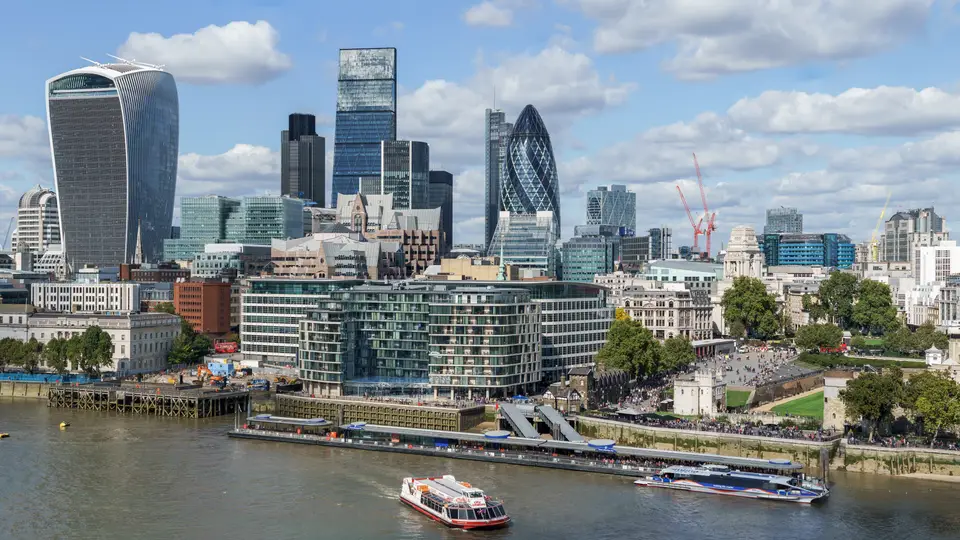
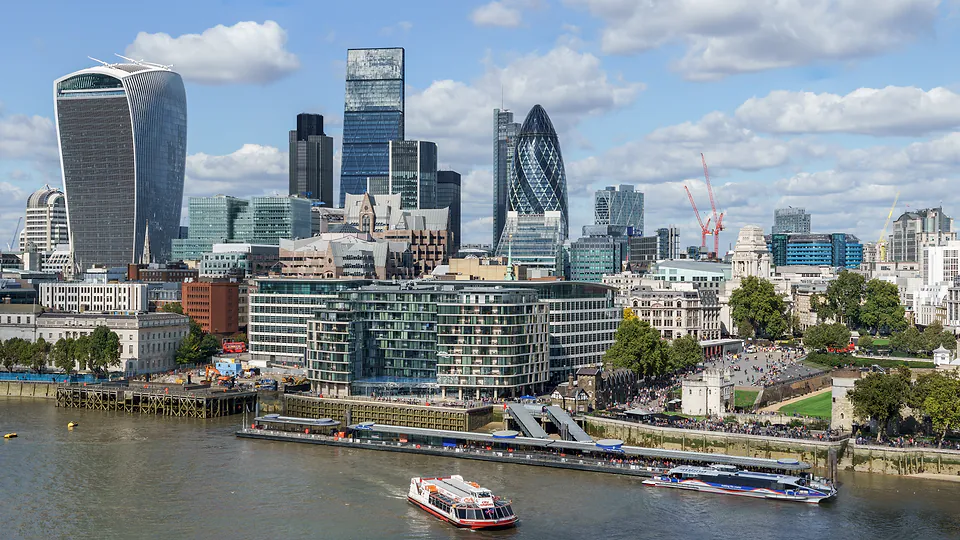
Hero photos brighter and clearer, changing every 3 seconds
Shading now sits only behind the text (measured 4.5:1 or better on every
photo), photos re-exported sharper with a 2560px size, and the slideshow
moves forward every 3 seconds for every visitor, with Pause still working.

diff --git a/web/src/components/home/HeroPhotoSlides.tsx b/web/src/components/home/HeroPhotoSlides.tsx
@@ -1,13 +1,15 @@
 "use client";
 
-import { useEffect, useReducer, useState, useSyncExternalStore } from "react";
+import { useEffect, useReducer, useState } from "react";
 import { cn } from "@/lib/cn";
 import { Container } from "@/components/ui/Container";
 
 /**
  * Sliding background photos for the homepage hero (owner request
  * 2026-11-23). The headline and search card stay still; only the photos
- * behind them change, every 7 seconds.
+ * behind them change, every 3 seconds, moving forward automatically
+ * (owner instruction 2026-11-23: "bright and clear", "changes after
+ * every 3 sec").
  *
  * PHOTOS: openly licensed London scenes from Wikimedia Commons, NOT Times
  * Estate Ltd properties, and never captioned as listings (Rule 1). Each
@@ -15,9 +17,10 @@ import { Container } from "@/components/ui/Container";
  * its source and licence. Full record: brand/hero-photos/LICENCES.md.
  *
  * ACCESSIBILITY (WCAG 2.2): a pause control for moving content (2.2.2);
- * dots are real buttons with labels; visitors who ask their device for
- * reduced motion get no automatic movement; the photos are decorative
- * (alt=""), so screen readers skip them.
+ * dots are real buttons with labels; the photos are decorative (alt=""),
+ * so screen readers skip them. Visitors who ask their device for reduced
+ * motion still see the photos change (owner's instruction), but as an
+ * instant swap with no fade, and can stop them with the pause button.
  */
 export const HERO_PHOTOS = [
   {
@@ -62,18 +65,7 @@ export const HERO_PHOTOS = [
   },
 ] as const;
 
-const INTERVAL_MS = 7000;
-
-const MOTION_QUERY = "(prefers-reduced-motion: reduce)";
-// Guarded: very old browsers (and test environments) have no matchMedia.
-const motionQuery = () =>
-  typeof window.matchMedia === "function" ? window.matchMedia(MOTION_QUERY) : null;
-function subscribeMotion(onChange: () => void) {
-  const query = motionQuery();
-  query?.addEventListener("change", onChange);
-  return () => query?.removeEventListener("change", onChange);
-}
-const reducedMotionNow = () => motionQuery()?.matches ?? false;
+const INTERVAL_MS = 3000;
 
 /**
  * Which photo is showing, and which photos the browser may download.
@@ -96,11 +88,8 @@ function slideReducer(state: SlideState, action: { type: "next" } | { type: "go"
 export function HeroPhotoSlides() {
   const [{ index, loaded }, dispatch] = useReducer(slideReducer, { index: 0, loaded: new Set([0, 1]) });
   const setIndex = (to: number) => dispatch({ type: "go", to });
-  // "auto" until the visitor presses the button: reduced-motion visitors
-  // start paused, but an explicit Play (or Pause) always wins.
-  const [choice, setChoice] = useState<"auto" | "play" | "pause">("auto");
-  const reducedMotion = useSyncExternalStore(subscribeMotion, reducedMotionNow, () => false);
-  const playing = choice === "play" || (choice === "auto" && !reducedMotion);
+  // Plays automatically for everyone until the visitor presses Pause.
+  const [playing, setPlaying] = useState(true);
 
   useEffect(() => {
     if (!playing) return;
@@ -119,7 +108,7 @@ export function HeroPhotoSlides() {
           <img
             key={photo.slug}
             src={`/hero/${photo.slug}-1920.webp`}
-            srcSet={`/hero/${photo.slug}-960.webp 960w, /hero/${photo.slug}-1920.webp 1920w`}
+            srcSet={`/hero/${photo.slug}-960.webp 960w, /hero/${photo.slug}-1920.webp 1920w, /hero/${photo.slug}-2560.webp 2560w`}
             sizes="100vw"
             alt=""
             width={1920}
@@ -129,14 +118,19 @@ export function HeroPhotoSlides() {
             decoding="async"
             style={{ objectPosition: photo.position }}
             className={cn(
-              "absolute inset-0 h-full w-full object-cover motion-safe:transition-opacity motion-safe:duration-1000",
+              "absolute inset-0 h-full w-full object-cover motion-safe:transition-opacity motion-safe:duration-700",
               i === index ? "opacity-100" : "opacity-0",
             )}
           />
         ))}
-        {/* Darkening layers keep white text above 4.5:1 over any photo. */}
-        <div className="absolute inset-0 bg-ink/65" />
-        <div className="absolute inset-0 bg-gradient-to-r from-ink/60 via-ink/20 to-transparent" />
+        {/* Shading only where text sits, so the photos stay bright and
+            clear: a left-hand fade behind the headline on wide screens, a
+            top-down fade on phones (where the text sits at the top), a
+            bottom fade behind the controls, and a small backing behind
+            the credit. Measured to keep
+            white text at 4.5:1 or better — see TEST_REPORT.md. */}
+        <div className="absolute inset-0 bg-[linear-gradient(to_bottom,rgb(20_20_20/0.66)_0%,rgb(20_20_20/0.6)_42%,rgb(20_20_20/0.1)_72%)] lg:bg-[linear-gradient(to_right,rgb(20_20_20/0.78)_0%,rgb(20_20_20/0.62)_42%,transparent_68%)]" />
+        <div className="absolute inset-x-0 bottom-0 h-20 bg-gradient-to-t from-ink/70 to-transparent" />
       </div>
 
       {/* Controls and the licence credit for the photo on screen. */}
@@ -145,7 +139,7 @@ export function HeroPhotoSlides() {
           <div className="flex items-center gap-2">
             <button
               type="button"
-              onClick={() => setChoice(playing ? "pause" : "play")}
+              onClick={() => setPlaying(!playing)}
               aria-label={playing ? "Pause background photos" : "Play background photos"}
               className="inline-flex h-7 w-7 items-center justify-center rounded-full border border-white/60 text-white hover:bg-white/15"
             >
@@ -174,7 +168,7 @@ export function HeroPhotoSlides() {
               </button>
             ))}
           </div>
-          <p className="text-[0.7rem] text-white/90">
+          <p className="rounded-sm bg-ink/60 px-1.5 py-0.5 text-[0.7rem] text-white">
             Photo:{" "}
             <a href={current.source} target="_blank" rel="noopener noreferrer" className="underline underline-offset-2 hover:text-white">
               {current.author}

diff --git a/web/src/components/home/HeroPhotoSlides.test.tsx b/web/src/components/home/HeroPhotoSlides.test.tsx
@@ -1,14 +1,14 @@
 // Homepage hero photo slideshow (owner request 2026-11-23).
 import fs from "node:fs";
 import path from "node:path";
-import { describe, expect, it } from "vitest";
-import { fireEvent, render, screen } from "@testing-library/react";
+import { describe, expect, it, vi } from "vitest";
+import { act, fireEvent, render, screen } from "@testing-library/react";
 import { HERO_PHOTOS, HeroPhotoSlides } from "@/components/home/HeroPhotoSlides";
 
 describe("hero photo slideshow", () => {
-  it("has both image sizes on disk for every photo", () => {
+  it("has all three image sizes on disk for every photo", () => {
     for (const p of HERO_PHOTOS) {
-      for (const w of [960, 1920]) {
+      for (const w of [960, 1920, 2560]) {
         expect(fs.existsSync(path.join(process.cwd(), "public", "hero", `${p.slug}-${w}.webp`))).toBe(true);
       }
     }
@@ -36,15 +36,33 @@ describe("hero photo slideshow", () => {
     expect(screen.getByRole("button", { name: "Play background photos" })).toBeInTheDocument();
   });
 
-  it("starts paused for reduced-motion visitors, but Play still works", () => {
+  it("moves forward on its own every 3 seconds, and stops when paused", () => {
+    vi.useFakeTimers();
+    try {
+      render(<HeroPhotoSlides />);
+      const dots = () => screen.getAllByRole("button", { name: /Show background photo/ });
+      expect(dots()[0]).toHaveAttribute("aria-current", "true");
+      act(() => vi.advanceTimersByTime(3000));
+      expect(dots()[1]).toHaveAttribute("aria-current", "true");
+      act(() => vi.advanceTimersByTime(3000));
+      expect(dots()[2]).toHaveAttribute("aria-current", "true");
+      fireEvent.click(screen.getByRole("button", { name: "Pause background photos" }));
+      act(() => vi.advanceTimersByTime(9000));
+      expect(dots()[2]).toHaveAttribute("aria-current", "true");
+    } finally {
+      vi.useRealTimers();
+    }
+  });
+
+  it("plays automatically even for reduced-motion visitors (owner instruction), and Pause works", () => {
     const original = window.matchMedia;
     window.matchMedia = ((q: string) => ({
       matches: q.includes("reduce"), media: q, addEventListener() {}, removeEventListener() {},
     })) as unknown as typeof window.matchMedia;
     try {
       render(<HeroPhotoSlides />);
-      fireEvent.click(screen.getByRole("button", { name: "Play background photos" }));
-      expect(screen.getByRole("button", { name: "Pause background photos" })).toBeInTheDocument();
+      fireEvent.click(screen.getByRole("button", { name: "Pause background photos" }));
+      expect(screen.getByRole("button", { name: "Play background photos" })).toBeInTheDocument();
     } finally {
       window.matchMedia = original;
     }

diff --git a/web/src/components/home/HomeHero.tsx b/web/src/components/home/HomeHero.tsx
@@ -16,15 +16,15 @@ export function HomeHero() {
         size="wide"
         className="relative grid gap-10 pt-14 pb-20 lg:grid-cols-[1.05fr_1fr] lg:items-center lg:pt-20 lg:pb-24 xl:grid-cols-[1.2fr_1fr]"
       >
-        <div className="max-w-xl">
-          <p className="flex items-center gap-3 text-[0.7rem] font-semibold uppercase tracking-[0.35em] text-white/85">
+        <div className="max-w-xl [text-shadow:0_1px_3px_rgb(0_0_0/0.55)]">
+          <p className="flex items-center gap-3 text-[0.7rem] font-semibold uppercase tracking-[0.35em] text-white">
             London Property Experts
             <span aria-hidden className="h-px w-12 bg-accent-vivid" />
           </p>
           <h1 className="mt-4 text-4xl font-bold leading-[1.05] text-white sm:text-5xl lg:text-6xl text-balance">
             Browse London Properties
           </h1>
-          <p className="mt-5 max-w-md text-base leading-relaxed text-white/80 sm:text-lg">
+          <p className="mt-5 max-w-md text-base leading-relaxed text-white sm:text-lg">
             Homes and commercial property to buy and rent, from our office on
             Upper Tooting Road in South West London.
           </p>

diff --git a/TEST_REPORT.md b/TEST_REPORT.md
@@ -693,3 +693,17 @@ Supabase project paused, so every database call failed.
 | Server log | Only short lines like "save enquiry failed — database unavailable (XX000)"; no names, emails or query text |
 | Automated tests | 300 pass in 44 files (6 new in `web/src/lib/db/outage.test.ts`); lint and type-check clean |
 
+## Addendum 2026-11-23 — brighter hero: text contrast over each photo
+
+This is the worst-case contrast of the white hero text. "Worst case" means the brightest 5% of photo pixels under each text block, with the new shading applied. It was measured from the actual image files at the hero's real sizes (desktop 1425×443, phone 375×657). The target is 4.5:1, or 3:1 for the large headline.
+
+| Photo | Desktop (eyebrow / headline / intro / credit) | Phone |
+|---|---|---|
+| City skyline at dusk | 13.9 / 13.8 / 14.5 / 9.9 | 13.8 / 13.9 / 11.9 / 16.0 |
+| Richmond Green houses | 5.2 / 5.2 / 5.9 / 8.9 | 13.4 / 5.4 / 4.9 / 14.0 |
+| City skyline, Thames | 7.8 / 6.6 / 6.6 / 10.0 | 7.3 / 6.9 / 6.7 / 12.4 |
+| Redcliffe Square | 6.4 / 6.0 / 6.3 / 14.5 | 6.2 / 5.9 / 5.6 / 11.9 |
+| Queen Anne's Gate | 6.4 / 6.7 / 7.5 / 10.6 | 7.5 / 6.8 / 6.3 / 15.6 |
+
+All pass, without counting the added text shadow. In the browser on the production build, the photo changed every 3.0 seconds and looped. axe found 0 violations at 375 and 1440 px, and there was no sideways scrolling. Tests: 301 pass.
+

diff --git a/CHANGELOG.md b/CHANGELOG.md
@@ -9,6 +9,25 @@
 
 ---
 
+## 2026-11-23 — Hero photos brighter, clearer, changing every 3 seconds
+
+- Owner request: "too blur, make it bright and clear", "changes after
+  every 3 sec and move forward automatically".
+- The photos were sharp, but a 65% dark layer covered the whole picture
+  and the files were heavily compressed. Now the shading sits only
+  behind the words (left-hand side on wide screens, top on phones), and
+  the right side of the photo is clear. The photos were re-exported at
+  higher quality with light sharpening, plus a new 2560 px size for
+  large, high-resolution screens.
+- White text is still readable on every photo. I measured each one at
+  desktop and phone sizes: the worst case is 4.9:1, and the target is
+  4.5:1. Details are in `TEST_REPORT.md`.
+- The photos change every 3 seconds and loop. They now move for every
+  visitor, including those whose device asks for reduced motion (the
+  owner's instruction). Those visitors get an instant change with no
+  fade. The pause button still works for everyone.
+- 301 tests; axe 0 violations at 375 and 1440 px.
+
 ## 2026-11-23 — Site keeps working when the database is unreachable
 
 - Found when the Supabase project paused (Free plan): the whole

diff --git a/DECISIONS.md b/DECISIONS.md
@@ -30,6 +30,22 @@
   The headline and search card stay still; only the photos behind them
   slide (every 7 seconds), with a pause button and dots, and no
   automatic movement for visitors who ask for reduced motion.
+- **Changed later the same day (owner instruction):** "too blur, make
+  it bright and clear and image changes after every 3 sec and move
+  forward automatically".
+  - Shading now sits only behind the words, so the rest of the photo
+    is bright. White text was measured at 4.5:1 or better on every
+    photo (`TEST_REPORT.md`).
+  - The photos change every **3 seconds**. They now move
+    **automatically for every visitor**, including those whose device
+    asks for reduced motion. Those visitors get an instant change with
+    no fade, and the pause button stops it for anyone (WCAG 2.2.2 is
+    still met).
+  - Judgement call, easy to reverse: honouring the reduced-motion
+    setting is good practice for people with motion sensitivity, and a
+    3-second change is fast. If the owner prefers, the earlier
+    behaviour (reduced-motion visitors start paused) can be restored in
+    one line.
 
 ### 2026-11-09 — Email: the domain's existing 20i StackMail (owner decision)
 

diff --git a/brand/hero-photos/LICENCES.md b/brand/hero-photos/LICENCES.md
@@ -32,7 +32,7 @@ Replace them with the business's own photography when it exists.
 
 ## Files
 
-- `web/public/hero/*-1920.webp` and `*-960.webp`: what the website uses
+- `web/public/hero/*-960.webp`, `*-1920.webp` and `*-2560.webp`: what the website uses (re-exported sharper on 2026-11-23; cropped and resized only, colours unchanged)
   (made with the project's `sharp` image tool: cropped to 16:9, resized,
   WebP).
 - `brand/hero-photos/originals/`: the full-size downloads (about 27 MB),
